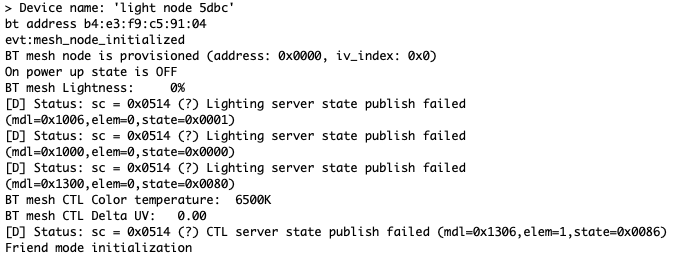
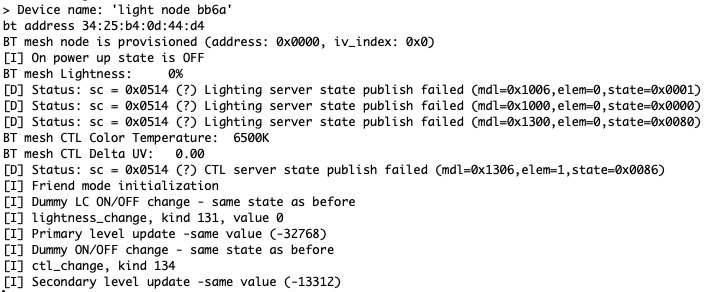
btmesh_soc_erase_nvm

Changed region(s): [[0.0, 0.0, 0.9956, 1.0]]

diff --git a/node/node_memory_reset/src/app_out_log.c b/node/node_memory_reset/src/app_out_log.c
@@ -1,9 +1,9 @@
 /***************************************************************************//**
  * @file
- * @brief Application Output LCD code
+ * @brief Application Output Log code
  *******************************************************************************
  * # License
- * <b>Copyright 2022 Silicon Laboratories Inc. www.silabs.com</b>
+ * <b>Copyright 2020 Silicon Laboratories Inc. www.silabs.com</b>
  *******************************************************************************
  *
  * SPDX-License-Identifier: Zlib
@@ -29,13 +29,10 @@
  ******************************************************************************/
 
 #include <stdbool.h>
-#include <stdio.h>
 #include "em_common.h"
 #include "sl_status.h"
 
-#ifdef SL_COMPONENT_CATALOG_PRESENT
 #include "sl_component_catalog.h"
-#endif // SL_COMPONENT_CATALOG_PRESENT
 
 #include "app.h"
 #include "app_log.h"
@@ -58,7 +55,10 @@
 #include "sl_btmesh_factory_reset.h"
 #endif // SL_CATALOG_BTMESH_FACTORY_RESET_PRESENT
 
-#include "sl_btmesh_wstk_lcd.h"
+// -----------------------------------------------------------------------------
+// Macros
+
+#define LIGHTNESS_LEVEL_TO_PERCENTAGE(lev) ((((lev) * 100) + 32767) / 65535)
 
 // -----------------------------------------------------------------------------
 // BT mesh Friend Node Callbacks
@@ -68,6 +68,7 @@
  *
  * @param[in] netkey_index Index of the network key used in friendship
  * @param[in] lpn_address Low Power Node address
+ *
  ******************************************************************************/
 void sl_btmesh_friend_on_friendship_established(uint16_t netkey_index,
                                                 uint16_t lpn_address)
@@ -76,9 +77,6 @@ void sl_btmesh_friend_on_friendship_established(uint16_t netkey_index,
           "(netkey idx: %u, lpn addr: 0x%04x)" APP_LOG_NL,
           netkey_index,
           lpn_address);
-  sl_status_t status = sl_btmesh_LCD_write("FRIEND",
-                                           SL_BTMESH_WSTK_LCD_ROW_FRIEND_CFG_VAL);
-  app_log_status_error_f(status, "LCD write failed" APP_LOG_NL);
   (void)netkey_index;
   (void)lpn_address;
 }
@@ -90,6 +88,7 @@ void sl_btmesh_friend_on_friendship_established(uint16_t netkey_index,
  * @param[in] netkey_index Index of the network key used in friendship
  * @param[in] lpn_address Low Power Node address
  * @param[in] reason Reason for friendship termination
+ *
  ******************************************************************************/
 void sl_btmesh_friend_on_friendship_terminated(uint16_t netkey_index,
                                                uint16_t lpn_address,
@@ -100,9 +99,6 @@ void sl_btmesh_friend_on_friendship_terminated(uint16_t netkey_index,
           netkey_index,
           lpn_address,
           reason);
-  sl_status_t status = sl_btmesh_LCD_write("NO LPN",
-                                           SL_BTMESH_WSTK_LCD_ROW_FRIEND_CFG_VAL);
-  app_log_status_error_f(status, "LCD write failed" APP_LOG_NL);
   (void)netkey_index;
   (void)lpn_address;
   (void)reason;
@@ -118,28 +114,19 @@ void sl_btmesh_friend_on_friendship_terminated(uint16_t netkey_index,
  *
  * @param[in] temperature Temperature of color.
  * @param[in] deltauv     Delta UV value.
+ *
  ******************************************************************************/
 void sl_btmesh_ctl_on_ui_update(uint16_t temperature,
                                 uint16_t deltauv)
 {
-  // Temporary buffer to format the LCD output text
-  char tmp_str[LCD_ROW_LEN];
   char deltauv_str[8] = { 0 };
 
   sl_btmesh_ctl_server_snprint_deltauv(deltauv_str,
                                        sizeof(deltauv_str),
                                        deltauv);
-
-  snprintf(tmp_str, LCD_ROW_LEN, "ColorTemp: %5uK", temperature);
-  app_log("BT mesh CTL Color temperature: %5uK" APP_LOG_NL, temperature);
-  sl_status_t status = sl_btmesh_LCD_write(tmp_str,
-                                           SL_BTMESH_WSTK_LCD_ROW_COLOR_TEMPERATURE_CFG_VAL);
-  app_log_status_error_f(status, "LCD write failed" APP_LOG_NL);
-
-  snprintf(tmp_str, LCD_ROW_LEN, "Delta UV: %6s ", deltauv_str);
+  app_log("BT mesh CTL Color Temperature: %5uK" APP_LOG_NL, temperature);
   app_log("BT mesh CTL Delta UV: %6s" APP_LOG_NL, deltauv_str);
-  status = sl_btmesh_LCD_write(tmp_str, SL_BTMESH_WSTK_LCD_ROW_DELTAUV_CFG_VAL);
-  app_log_status_error_f(status, "LCD write failed" APP_LOG_NL);
+  (void)temperature;
 }
 
 // -----------------------------------------------------------------------------
@@ -151,18 +138,13 @@ void sl_btmesh_ctl_on_ui_update(uint16_t temperature,
  * controlled by changing the SL_BTMESH_LIGHTING_SERVER_UI_UPDATE_PERIOD_CFG_VAL macro.
  *
  * @param[in] lightness_level lightness level (0x0001 - FFFE)
+ *
  ******************************************************************************/
 void sl_btmesh_lighting_server_on_ui_update(uint16_t lightness_level)
 {
-  // Temporary buffer to format the LCD output text
-  char tmp_str[LCD_ROW_LEN];
-  uint16_t lightness_percent = (lightness_level * 100 + 99) / 65535;
-
-  app_log("BT mesh Lightness: %5u%%" APP_LOG_NL, lightness_percent);
-  snprintf(tmp_str, LCD_ROW_LEN, "Lightness: %5u%%", lightness_percent);
-  sl_status_t status = sl_btmesh_LCD_write(tmp_str,
-                                           SL_BTMESH_WSTK_LCD_ROW_LIGHTNESS_CFG_VAL);
-  app_log_status_error_f(status, "LCD write failed" APP_LOG_NL);
+  app_log("BT mesh Lightness: %5u%%" APP_LOG_NL,
+          LIGHTNESS_LEVEL_TO_PERCENTAGE(lightness_level));
+  (void)lightness_level;
 }
 
 // -----------------------------------------------------------------------------
@@ -176,6 +158,7 @@ void sl_btmesh_lighting_server_on_ui_update(uint16_t lightness_level)
                            Ignored if unprovisioned.
  * @param[in] iv_index     IV index for the first network of the node
                            Ignored if unprovisioned.
+ *
  ******************************************************************************/
 void sl_btmesh_on_provision_init_status(bool provisioned,
                                         uint16_t address,
@@ -186,24 +169,22 @@ void sl_btmesh_on_provision_init_status(bool provisioned,
   } else {
     app_log("BT mesh node is unprovisioned, "
             "started unprovisioned beaconing..." APP_LOG_NL);
-    sl_status_t status = sl_btmesh_LCD_write("unprovisioned",
-                                             SL_BTMESH_WSTK_LCD_ROW_STATUS_CFG_VAL);
-    app_log_status_error_f(status, "LCD write failed" APP_LOG_NL);
   }
 }
+
+// -----------------------------------------------------------------------------
+// Provisioning Decorator Callbacks
 
 /*******************************************************************************
  * Called when the Provisioning starts
  *
  * @param[in] result  Result code. 0: success, non-zero: error
+ *
  ******************************************************************************/
 void app_show_btmesh_node_provisioning_started(uint16_t result)
 {
   app_log("BT mesh node provisioning is started (result: 0x%04x)" APP_LOG_NL,
           result);
-  sl_status_t status = sl_btmesh_LCD_write("provisioning...",
-                                           SL_BTMESH_WSTK_LCD_ROW_STATUS_CFG_VAL);
-  app_log_status_error_f(status, "LCD write failed" APP_LOG_NL);
   (void)result;
 }
 
@@ -214,6 +195,7 @@ void app_show_btmesh_node_provisioning_started(uint16_t result)
                            Ignored if unprovisioned.
  * @param[in] iv_index     IV index for the first network of the node
                            Ignored if unprovisioned.
+ *
  ******************************************************************************/
 void app_show_btmesh_node_provisioned(uint16_t address,
                                       uint32_t iv_index)
@@ -221,9 +203,6 @@ void app_show_btmesh_node_provisioned(uint16_t address,
   app_log("BT mesh node is provisioned (address: 0x%04x, iv_index: 0x%lx)" APP_LOG_NL,
           address,
           iv_index);
-  sl_status_t status = sl_btmesh_LCD_write("provisioned",
-                                           SL_BTMESH_WSTK_LCD_ROW_STATUS_CFG_VAL);
-  app_log_status_error_f(status, "LCD write failed" APP_LOG_NL);
   (void)address;
   (void)iv_index;
 }
@@ -232,14 +211,12 @@ void app_show_btmesh_node_provisioned(uint16_t address,
  * Called when the Provisioning fails
  *
  * @param[in] result  Result code. 0: success, non-zero: error
+ *
  ******************************************************************************/
-void sl_btmesh_on_node_provisioning_failed(uint16_t result)
+void app_show_btmesh_node_provisioning_failed(uint16_t result)
 {
   app_log("BT mesh node provisioning failed (result: 0x%04x)" APP_LOG_NL, result);
-  sl_status_t status = sl_btmesh_LCD_write("prov failed...",
-                                           SL_BTMESH_WSTK_LCD_ROW_STATUS_CFG_VAL);
-  app_log_status_error_f(status, "LCD write failed" APP_LOG_NL);
-  (void)result;
+  (void) result;
 }
 
 // -----------------------------------------------------------------------------
@@ -251,9 +228,6 @@ void sl_btmesh_on_node_provisioning_failed(uint16_t result)
 void app_show_btmesh_node_reset(void)
 {
   app_log("Node reset" APP_LOG_NL);
-  sl_status_t status = sl_btmesh_LCD_write("Node reset",
-                                           SL_BTMESH_WSTK_LCD_ROW_STATUS_CFG_VAL);
-  app_log_status_error_f(status, "LCD write failed" APP_LOG_NL);
 }
 
 /*******************************************************************************
@@ -262,7 +236,4 @@ void app_show_btmesh_node_reset(void)
 void sl_btmesh_factory_reset_on_full_reset(void)
 {
   app_log("Factory reset" APP_LOG_NL);
-  sl_status_t status = sl_btmesh_LCD_write("Factory reset",
-                                           SL_BTMESH_WSTK_LCD_ROW_STATUS_CFG_VAL);
-  app_log_status_error_f(status, "LCD write failed" APP_LOG_NL);
 }

diff --git a/node/node_memory_reset/src/app.c b/node/node_memory_reset/src/app.c
@@ -180,7 +180,7 @@ bool handle_reset_conditions(void)
     //sl_btmesh_initiate_full_reset();
     lcd_print("erasing keys", SL_BTMESH_WSTK_LCD_ROW_STATUS_CFG_VAL);
     mesh_erase_nvm_settings();
-    sl_bt_system_reset(0);
+    sl_bt_system_reboot();
     return false;
   }
 
@@ -204,21 +204,12 @@ bool handle_reset_conditions(void)
 static void handle_boot_event(void)
 {
   sl_status_t sc;
-  char buf[BOOT_ERR_MSG_BUF_LEN];
   uuid_128 uuid;
   // Check reset conditions and continue if not reset.
   if (handle_reset_conditions()) {
-    // Initialize Mesh stack in Node operation mode, wait for initialized event
-    sc = sl_btmesh_node_init();
-    if (sc) {
-      snprintf(buf, BOOT_ERR_MSG_BUF_LEN, "init failed (0x%lx)", sc);
-      lcd_print(buf, SL_BTMESH_WSTK_LCD_ROW_STATUS_CFG_VAL);
-      app_log("Initialization failed (0x%lx)\r\n", sc);
-    } else {
-      sc = sl_btmesh_node_get_uuid(&uuid);
-      app_assert_status_f(sc, "Failed to get UUID\n");
-      set_device_name(&uuid);
-    }
+    sc = sl_btmesh_node_get_uuid(&uuid);
+    app_assert_status_f(sc, "Failed to get UUID\n");
+    set_device_name(&uuid);
   }
 }
 

diff --git a/node/node_memory_reset/README.md b/node/node_memory_reset/README.md
@@ -2,25 +2,19 @@
 
 ## Description ##
 
-The NVM3 driver provides a means to write and read data objects (key/value pairs) stored in flash. Wear-leveling is applied to
-reduce erase and write cycles and maximize flash lifetime. The
-driver is resilient to power loss and reset events, ensuring that
-objects retrieved from the driver are always in a valid state. A single NVM3 instance can be shared among several wireless stacks
-and application code, making it well-suited for multiprotocol applications. This application note explains how NVM3 can be used
-as non-volatile data storage in Zigbee (EmberZNet), Open
-Thread, Z-Wave, Bluetooth, and Connect applications.
+The NVM3 driver provides a means to write and read data objects (key/value pairs) stored in flash. Wear-leveling is applied to reduce erase and write cycles and maximize flash lifetime. The driver is resilient to power loss and reset events, ensuring that objects retrieved from the driver are always in a valid state. A single NVM3 instance can be shared among several wireless stacks and application code, making it well-suited for multiprotocol applications.
 
 This example project is aimed to demonstrate how to erase the entire Bluetooth Mesh configuration region from the NVM by deleting the associated keys. This example is not meant to be used in production code, see ```Known limitations```! The Bluetooth Mesh PS entries are stored between keys 0x1000 and 0x2FFF.
 
-## Gecko SDK version ##
+## Simplicity SDK version ##
 
-GSDK v4.3.1
+SiSDK v2024.6.0
 
 ---
 
 ## Important
 
-> ⚠ You are not required to follow through with the Instructions when using our *External Repos* feature!
+> ⚠ You are not required to follow through with the setup part of the Instructions when using our [*External Repos*](../../README.md) feature!
 
 This project README assumes that the reader is familiar with the usage of SiliconLabs Simplicity Studio 5 and the provided example projects within it.
 
@@ -28,8 +22,8 @@ This project README assumes that the reader is familiar with the usage of Silico
 
 ## Requirements
 
-  - Simplicity Studio 5 with the latest GSDK
-  - SiliconLabs WSTK with Radio Board (for example BRD4162A)
+  - Simplicity Studio 5 with the latest SiSDK
+  - SiliconLabs WSTK with Radio Board (for example BRD4187C)
 
 ## Known limitations:
 
@@ -39,11 +33,15 @@ This project README assumes that the reader is familiar with the usage of Silico
 
 ## Instructions
 
-  - This Example is based on the ```Bluetooth Mesh - SoC Light``` included with the Silicon Labs GSDK
-  - Create a new project based on the ```Bluetooth Mesh - SoC Light``` example
-  - Copy the following file into the root directory of your project, overwriting the already existing one:
-    - app.c
-    - mesh_erase_nvm.c/h
+  - This Example is based on the ```Bluetooth Mesh - SoC Light CTL``` included with the Silicon Labs SiSDK
+  - Create a new project based on the ```Bluetooth Mesh - SoC Light CTL``` example
+  - Copy the following files into the root directory of your project, overwriting the already existing ones:
+    - src/app.c
+    - src/mesh_erase_nvm.c
+    - inc/mesh_erase_nvm.h
+  - Install the following components:
+    - Bluetooth Mesh > Models > Lighting > LC Server
+    - Bluetooth > Bluetooth Host (Stack) > Additional Features > NVM Support
   - When everything is configured, build and flash the projects
   - If everything went right, you should see the board booting up
   - Now, you may provision the node into a Network and after that, erase the NVM content with pressing ```Button 0``` and ```Reset``` at the same time. You will notice that as the result of the loss of data, the node will not be able properly reinitialize.

diff --git a/provisioning/oob_provisioning/README.md b/provisioning/oob_provisioning/README.md
@@ -26,7 +26,7 @@ This project README assumes that the reader is familiar with the usage of Silico
 
 ## Requirements
 
-  - Simplicity Studio 5 with the latest GSDK
+  - Simplicity Studio 5 with the latest SiSDK
   - 2x SiliconLabs WSTK with Radio Boards (for example BRD4187C)
 
 ## Known limitations:

diff --git a/provisioning/self_provisioning/README.md b/provisioning/self_provisioning/README.md
@@ -24,7 +24,7 @@ This project README assumes that the reader is familiar with the usage of Silico
 
 ## Requirements
 
-  - Simplicity Studio 5 with the latest GSDK
+  - Simplicity Studio 5 with the latest SiSDK
   - 2x SiliconLabs WSTK with Radio Boards (for example BRD4187C)
 
 ## Known limitations:

diff --git a/provisioning/remote_provisioning/README.md b/provisioning/remote_provisioning/README.md
@@ -26,7 +26,7 @@ This project README assumes that the reader is familiar with the usage of Silico
 
 ## Requirements
 
-  - Simplicity Studio 5 with the latest GSDK
+  - Simplicity Studio 5 with the latest SiSDK
   - 3x SiliconLabs WSTK with Radio Boards (for example BRD4187C)
 
 ## How it works

diff --git a/proxy_protocol/proxy_client/README.md b/proxy_protocol/proxy_client/README.md
@@ -28,7 +28,7 @@ This project README assumes that the reader is familiar with the usage of Silico
 
 ## Requirements
 
-  - Simplicity Studio 5 with the latest GSDK
+  - Simplicity Studio 5 with the latest SiSDK
   - SiliconLabs WSTK with Radio Board (for example BRD4187C)
 
 ## Instructions
